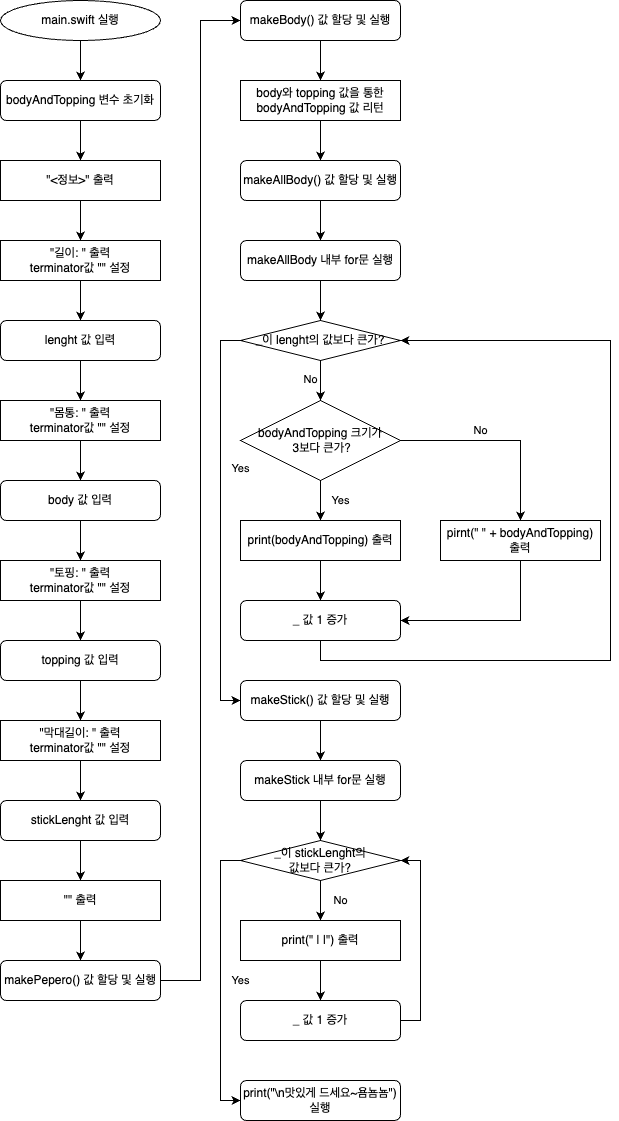
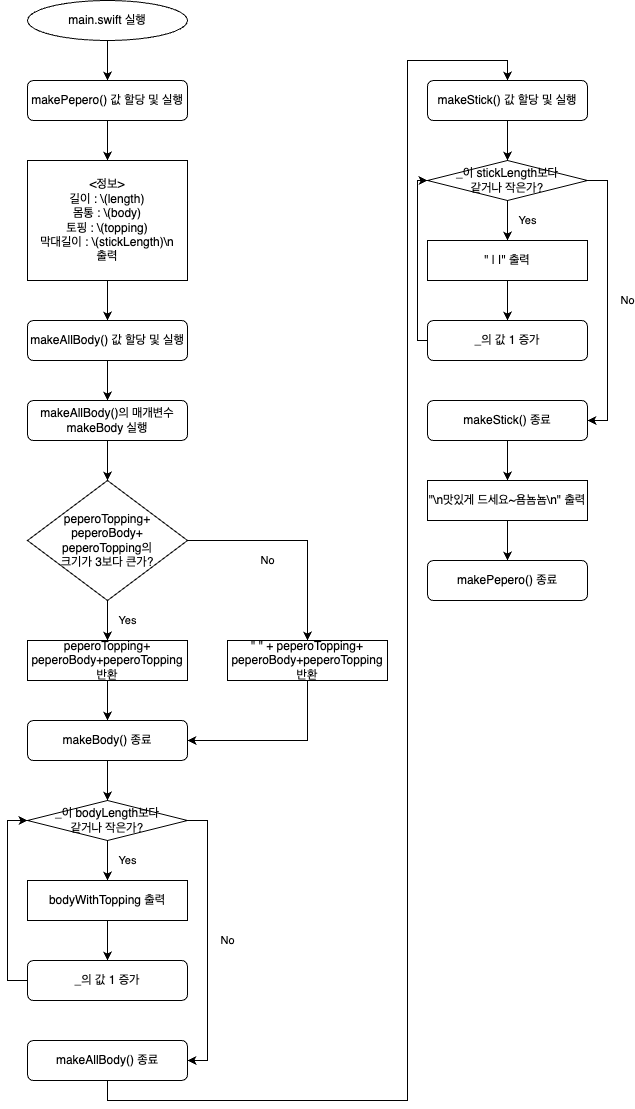
피드백 수정1

diff --git a/CodeStarterCamp_Week1/main.swift b/CodeStarterCamp_Week1/main.swift
@@ -7,52 +7,40 @@
 
 import Foundation
 
-var bodyAndTopping: String = ""
-
-func makeBody(body: String, topping: String) {
-    return bodyAndTopping = "\(topping)\(body)\(topping)"
-}
-
-func makeAllBody(bodyLenght: Int, bodyAndTopping: String) {
-    for _ in 1...lenght {
-        if bodyAndTopping.count > 3 {
-            print(bodyAndTopping)
-        } else {
-            print(" " + bodyAndTopping)
-        }
+func makeBody(peperoBody: String, peperoTopping: String) -> String {
+    if "\(peperoTopping + peperoBody + peperoTopping)".count > 3 {
+        return peperoTopping + peperoBody + peperoTopping
+    } else {
+        return " " + peperoTopping + peperoBody + peperoTopping
     }
 }
 
-func makeStick(stickLenght: Int) {
-    for _ in 1...stickLenght {
+func makeAllBody(bodyLength: Int, bodyWithTopping: String) {
+    for _ in 1...bodyLength {
+        print(bodyWithTopping)
+    }
+}
+
+func makeStick(stickLength: Int) {
+    for _ in 1...stickLength {
         print(" | |")
     }
 }
 
-func makePepero(lenght: Int, body: String, topping: String, stickLenght: Int) {
-    makeBody(body: body, topping: topping)
-    makeAllBody(bodyLenght: lenght, bodyAndTopping: bodyAndTopping)
-    makeStick(stickLenght: stickLenght)
-    print("\n맛있게 드세요~욤뇸뇸")
+func makePepero(length: Int, body: String, topping: String = "", stickLength: Int) {
+    print("""
+        <정보>
+        길이: \(length)
+        몸통: \(body)
+        토핑: \(topping)
+        막대길이: \(stickLength)\n
+        """)
+    makeAllBody(bodyLength: length, bodyWithTopping: makeBody(peperoBody: body, peperoTopping: topping))
+    makeStick(stickLength: stickLength)
+    print("\n맛있게 드세요~욤뇸뇸\n")
 }
 
-print("<정보>")
-print("길이: ", terminator: "")
-let lenght = Int(readLine()!)!
-print("몸통: ", terminator: "")
-let body = readLine()!
-print("토핑: ", terminator: "")
-let topping = readLine()!
-print("막대길이: ", terminator: "")
-let stickLenght = Int(readLine()!)!
-print("")
-makePepero(lenght: lenght, body: body, topping: topping, stickLenght: stickLenght)
-
-//makeBody(body: body, topping: topping)
-//makeAllBody(bodyLenght: lenght, bodyAndTopping: bodyAndTopping)
-//makeStick(stickLenght: stickLenght)
-
-//print(type(of:lenght))
-//print(type(of:body))
-//print(type(of:topping))
-//print(type(of:stickLenght))
+makePepero(length: 10, body: "***", stickLength: 4)
+makePepero(length: 12, body: "***", topping: "&", stickLength: 4)
+makePepero(length: 12, body: "***", topping: "#", stickLength: 6)
+makePepero(length: 6, body: "|0|", stickLength: 4)
